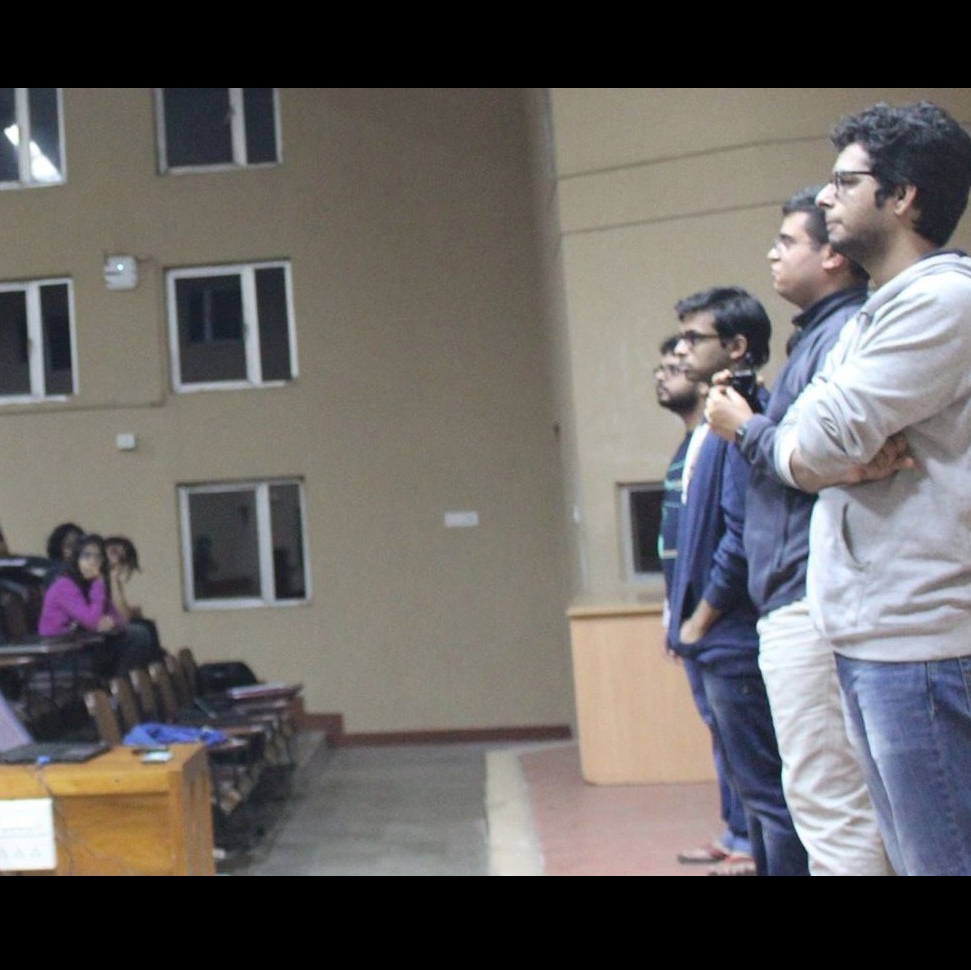
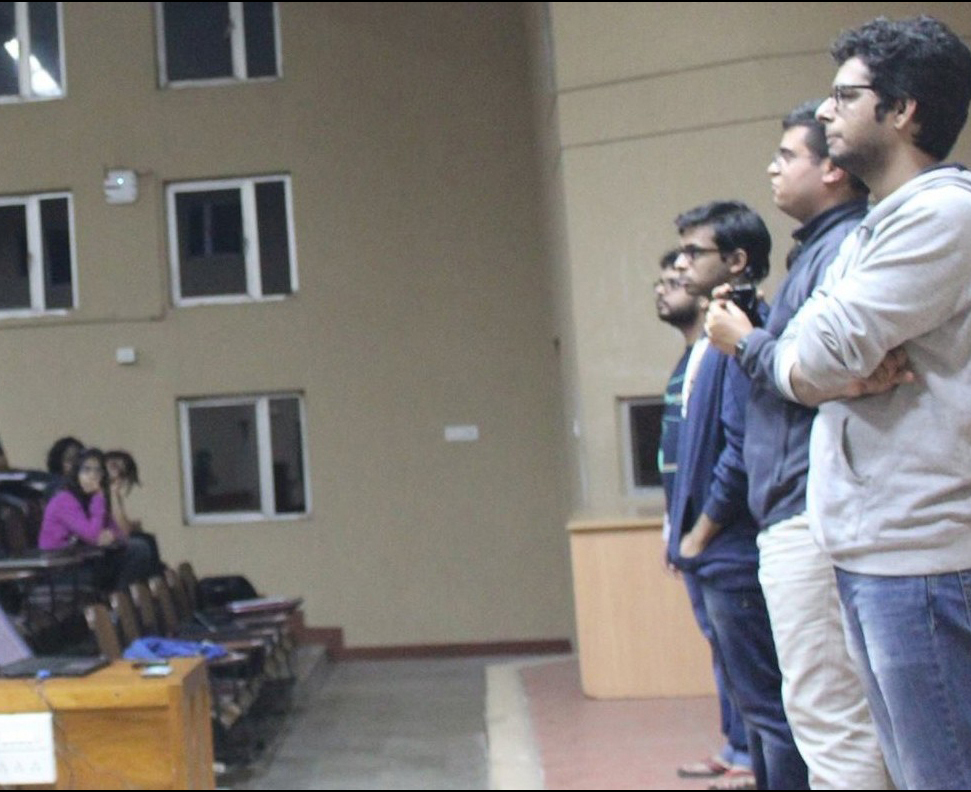
Images set to cover

diff --git a/home/templates/home/events.html b/home/templates/home/events.html
@@ -5,7 +5,6 @@ images <!DOCTYPE html>
 <!--[if IE 8]>         <html class="no-js lt-ie9"> <![endif]-->
 <!--[if gt IE 8]><!--> <html class="no-js"> <!--<![endif]-->
     
-<!-- Mirrored from www.shape.themeturn.com/html/cyprass/homepage/portfolio-single.html by HTTrack Website Copier/3.x [XR&CO'2014], Sat, 14 May 2016 11:18:33 GMT -->
 <head>
     <!-- Basic Page Needs
     ================================================== -->
@@ -95,11 +94,6 @@ images <!DOCTYPE html>
                 <div class="col-md-12">
                     <div class="portfolio-header text-center">
                         <h2>Google Summer of Code Introductory Seminary and GSoC follow up session </h2>
-                        <ul class="breadcrumb">
-                            <li>home</li>
-                            <li>portfolio</li>
-                            <li>portfolio details</li>
-                        </ul>images
                     </div>
                 </div>  <!-- Col-md-12 End -->
             </div>
@@ -113,9 +107,9 @@ images <!DOCTYPE html>
                 <div class="col-lg-12 col-md-12 col-sm-12 col-xs-12">
                     <div class="portfolio-slider-wrapper">
                         <ul id="portfolio-slider">
-                            <li><img  src="{% static "images/portfolio/gsoc/gsoc1.jpg" %}" alt=""  class="img-responsive" /></li>
-                            <li><img  src="{% static "images/portfolio/gsoc/gsoc2.jpg"  %}"alt="" class="img-responsive"/></li>
-                            <li><img src="{% static "images/portfolio/gsoc/gsoc3.jpg"  %}"alt="" class="img-responsive"/></li>
+                            <li><img  src="{% static "images/portfolio/gsoc/gsoc1.jpg" %}" alt=""  class="img-responsive" style="object-fit: cover" /></li>
+                            <li><img  src="{% static "images/portfolio/gsoc/gsoc2.jpg"  %}" alt="" class="img-responsive" style="object-fit: cover" /></li>
+                            <li><img src="{% static "images/portfolio/gsoc/gsoc3.jpg"  %}" alt="" class="img-responsive" style="object-fit: cover" /></li>
                           
                         </ul>
                     </div>
@@ -191,8 +185,8 @@ images <!DOCTYPE html>
                 <div class="col-lg-12 col-md-12 col-sm-12 col-xs-12">
                     <div class="portfolio-slider-wrapper">
                         <ul  id="portfolio-slider">
-                            <li><img src="{% static "images/portfolio/android/workshop1.jpg" %}" alt="" class="img-responsive"/></li>
-                            <li><img src="{% static "images//portfolio/android/workshop2.jpg" %}" alt="" class="img-responsive"/></li>
+                            <li><img src="{% static "images/portfolio/android/workshop1.jpg" %}" alt="" class="img-responsive" style="object-fit: cover"/></li>
+                            <li><img src="{% static "images//portfolio/android/workshop2.jpg" %}" alt="" class="img-responsive" style="object-fit: cover"/></li>
                             
                         </ul>
                     </div>
@@ -268,10 +262,10 @@ images <!DOCTYPE html>
                 <div class="col-lg-12 col-md-12 col-sm-12 col-xs-12">
                     <div class="portfolio-slider-wrapper">
                         <ul id="portfolio-slider">
-                            <li><img src="{% static "images//portfolio/printing_3d/pic1.jpg" %}" alt="" class="img-responsive"/></li>
-                            <li><img src="{% static "images//portfolio/printing_3d/pic2.jpg" %}" alt="" class="img-responsive"/></li>
-                            <li><img src="{% static "images//portfolio/printing_3d/pic3.jpg" %}" alt="" class="img-responsive"/></li>
-                            <li><img src="{% static "images//portfolio/printing_3d/pic4.jpg" %}" alt="" class="img-responsive"/></li>
+                            <li><img src="{% static "images//portfolio/printing_3d/pic1.jpg" %}" alt="" style="object-fit: cover" class="img-responsive"/></li>
+                            <li><img src="{% static "images//portfolio/printing_3d/pic2.jpg" %}" alt="" style="object-fit: cover" class="img-responsive"/></li>
+                            <li><img src="{% static "images//portfolio/printing_3d/pic3.jpg" %}" alt="" style="object-fit: cover" class="img-responsive"/></li>
+                            <li><img src="{% static "images//portfolio/printing_3d/pic4.jpg" %}" alt="" style="object-fit: cover" class="img-responsive"/></li>
                         </ul>
                     </div>
                 </div>
@@ -346,9 +340,9 @@ images <!DOCTYPE html>
                 <div class="col-lg-12 col-md-12 col-sm-12 col-xs-12">
                     <div class="portfolio-slider-wrapper">
                         <ul id="portfolio-slider">
-                            <li><img src="{% static "images//portfolio/hackathon.jpg" %}" alt="" class="img-responsive"/></li>
-                            <li><img src="{% static "images//slider/s2.jpg" %}" alt="" class="img-responsive"/></li>
-                            <li><img src="{% static "images//slider/s1.jpg" %}" alt="" class="img-responsive"/></li>
+                            <li><img src="{% static "images//portfolio/hackathon.jpg" %}" style="object-fit: cover" alt="" class="img-responsive"/></li>
+                            <li><img src="{% static "images//slider/s2.jpg" %}" alt="" style="object-fit: cover" class="img-responsive"/></li>
+                            <li><img src="{% static "images//slider/s1.jpg" %}" alt="" style="object-fit: cover" class="img-responsive"/></li>
                         </ul>
                     </div>
                 </div>
@@ -421,9 +415,9 @@ images <!DOCTYPE html>
                 <div class="col-lg-12 col-md-12 col-sm-12 col-xs-12">
                     <div class="portfolio-slider-wrapper">
                         <ul id="portfolio-slider">
-                            <li><img src="{% static "images//portfolio/fresher_intro/pic1.jpg" %}" alt="" class="img-responsive"/></li>
-                            <li><img src="{% static "images//portfolio/fresher_intro/pic2.jpg" %}" alt="" class="img-responsive"/></li>
-                            <li><img src="{% static "images//portfolio/fresher_intro/pic3.jpg" %}" alt="" class="img-responsive"/></li>
+                            <li><img src="{% static "images//portfolio/fresher_intro/pic1.jpg" %}" style="object-fit: cover" alt="" class="img-responsive"/></li>
+                            <li><img src="{% static "images//portfolio/fresher_intro/pic2.jpg" %}" style="object-fit: cover" alt="" class="img-responsive"/></li>
+                            <li><img src="{% static "images//portfolio/fresher_intro/pic3.jpg" %}" style="object-fit: cover" alt="" class="img-responsive"/></li>
                         </ul>
                     </div>
                 </div>
@@ -651,38 +645,44 @@ images <!DOCTYPE html>
     ================================================== -->
     <!-- initialize jQuery Library -->
 
+   <!-- Javascript Files
+    ================================================== -->
     <!-- initialize jQuery Library -->
-    <script type="text/javascript" src="js/jquery2.html"></script>
+
+    <!-- initialize jQuery Library -->
+        <!-- Main jquery -->
+        <script type="text/javascript" src="{% static "js/jquery.js" %}"></script>
         <!-- Bootstrap jQuery -->
-         <script src="js/bootstrap.min.js"></script>
+         <script src="{% static "js/bootstrap.min.js" %}"></script>
         <!-- Owl Carousel -->
-        <script src="js/owl.carousel.html"></script>
-        <script src="js/owl.carousel.min.js"></script>
-
+        <script src="{% static "js/owl.carousel.min.js" %}"></script>
         <!-- Isotope -->
-        <script src="js/jquery.isotope.js"></script>
+        <script src="{% static "js/jquery.isotope.js" %}"></script>
         <!-- Pretty Photo -->
-
+        <script type="text/javascript" src="{% static "js/jquery.prettyPhoto.js" %}"></script>
         <!-- SmoothScroll -->
-        <script type="text/javascript" src="js/smooth-scroll.js"></script>
+        <script type="text/javascript" src="{% static "js/smooth-scroll.js" %}"></script>
         <!-- Image Fancybox -->
-        <script type="text/javascript" src="js/jquery.fancybox.pack8cbb.js?v=2.1.5"></script>
+        <script type="text/javascript" src="{% static "js/jquery.fancybox.pack8cbb.js?v=2.1.5" %}"></script>
         <!-- Counter  -->
-        <script type="text/javascript" src="js/jquery.counterup.min.js"></script>
-        <!-- waypoint js -->
-        <script type="text/javascript" src="js/waypoints.min.js"></script>
-        <!-- Bx sldier -->
-        <script type="text/javascript" src="js/jquery.bxslider.min.js"></script>
-        <!-- scroll to top -->
-        <script type="text/javascript" src="js/jquery.scrollTo.js"></script>
-        <!-- Prettyphoto -->
-      <script src="js/jquery.prettyPhoto.js"></script>
+        <script type="text/javascript" src="{% static "js/jquery.counterup.min.js" %}"></script>
+        <!-- waypoints -->
+        <script type="text/javascript" src="{% static "js/waypoints.min.js" %}"></script>
+        <!-- Bx slider -->
+        <script type="text/javascript" src="{% static "js/jquery.bxslider.min.js" %}"></script>
+        <!-- Scroll to top -->
+        <script type="text/javascript" src="{% static "js/jquery.scrollTo.js" %}"></script>
+        <!-- Easing js -->
+        <script type="text/javascript" src="{% static "js/jquery.easing.1.3.js" %}"></script>
+       <!-- PrettyPhoto -->
+        <script src="{% static "js/jquery.singlePageNav.js" %}"></script>
         <!-- Wow Animation -->
-        <script type="js/javascript" src="js/wow.min.js"></script>
+        <script type="{% static "js/javascript" src="{% static "js/wow.min.js" %}"></script>
         <!-- Google Map  Source -->
-        <script type="text/javascript" src="js/gmaps.js"></script>
-    <!-- Custom js -->
-        <script src="js/custom.js"></script>
+        <script type="text/javascript" src="{% static "js/gmaps.js" %}"></script>
+       <!-- Custom js -->
+        <script src="{% static "js/custom.js" %}"></script>
+       <script>
   
         <script>
               $('#portfolio-slider').bxSlider({
